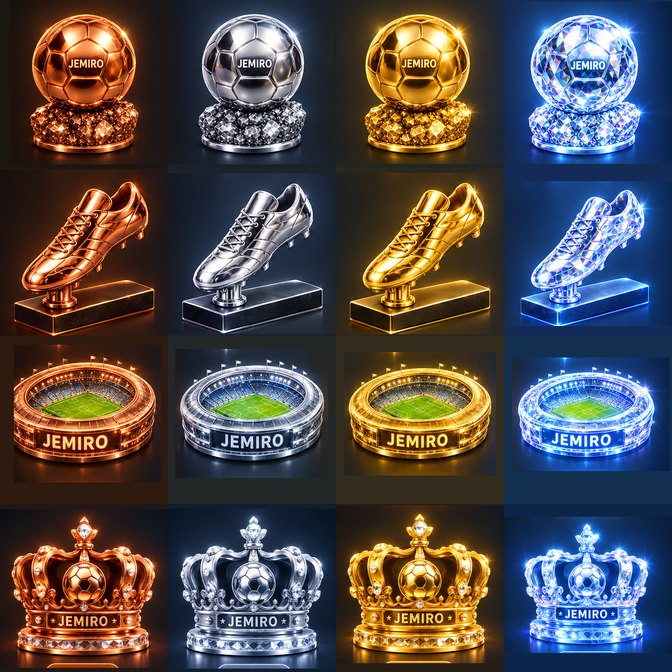
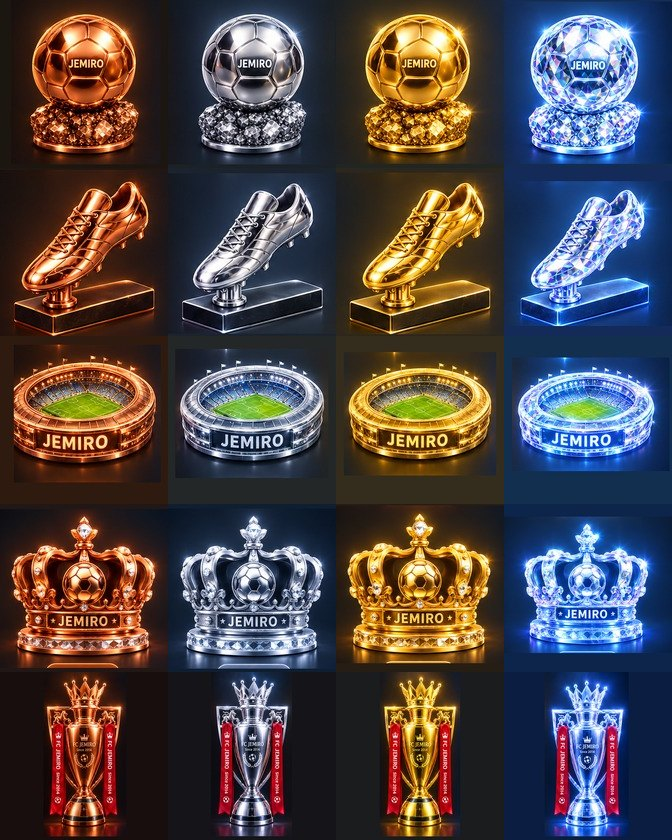
Add files via upload

diff --git a/index.html b/index.html
@@ -743,7 +743,7 @@ var APPCHECK_SITE_KEY = '6Lfmi2AtAAAAAP1R-1JlYz1ht1WuQWp2RS_tibpT';
 var APP_NAME = 'FC JEMIRO';
 var APP_SUB = 'FOOTBALL CLUB';
 /* 현재 앱 버전 (version.json과 비교해 최신 아니면 자동 업데이트) */
-var APP_VERSION = '5.1';
+var APP_VERSION = '5.2';
 /* 동축_아이콘: 로그인/팀탭 대표 이미지 (256x256 남색 PNG, 여백 없음) */
 var APP_LOGO = 'logo.png';
 /* 동축_배경: 헤더 배경 이미지 (1000x545 JPEG). 비우면 다크 그라디언트로 fallback */
@@ -4577,9 +4577,9 @@ function renderLogView_(){
 /* ================= 뱃지 아이콘 (트로피 이미지 스프라이트) =================
  * badges.jpg = 4열(동·은·금·다이아) × 4행(골든볼·골든부츠·운동장·왕관)
  * 화면은 CSS background-position, 카드는 canvas drawImage로 같은 이미지를 사용 */
-var BADGE_SRC='badges.jpg?v=2', BADGE_COLS=4, BADGE_ROWS=4;
+var BADGE_SRC='badges.jpg?v=3', BADGE_COLS=4, BADGE_ROWS=5;
 var BADGE_TIER={bronze:0, silver:1, gold:2, diamond:3, grey:2, ivory:2};
-var BADGE_ROW ={ball:0, boot:1, stadium:2, crown:3, trophy:3};
+var BADGE_ROW ={ball:0, boot:1, stadium:2, crown:3, trophy:4};
 var METAL={   // 테두리·글자 색 (아이콘 이미지의 톤과 맞춤)
   bronze:['#F3C48F','#C8853F','#5E3614'],
   silver:['#FFFFFF','#C4CDD9','#5B6673'],
